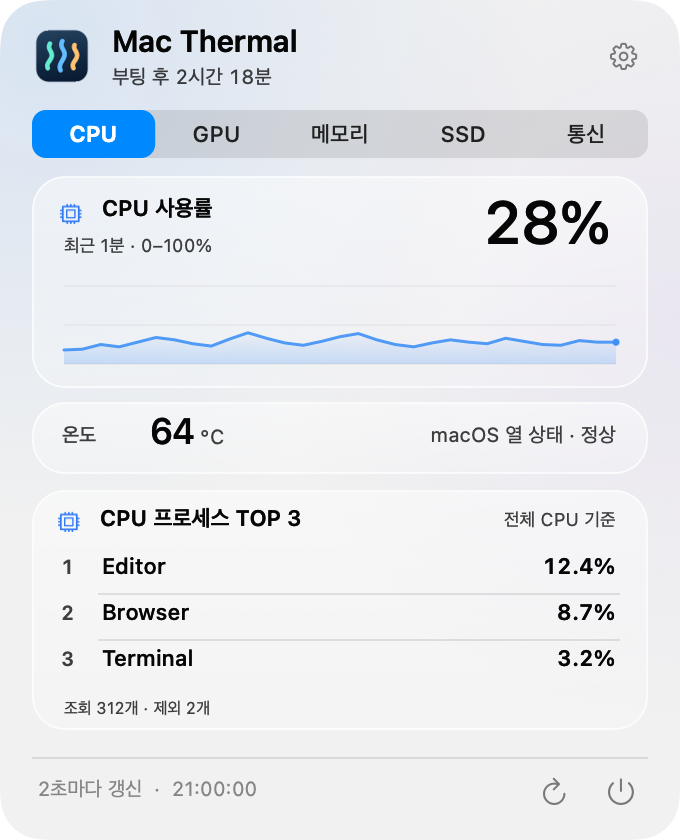
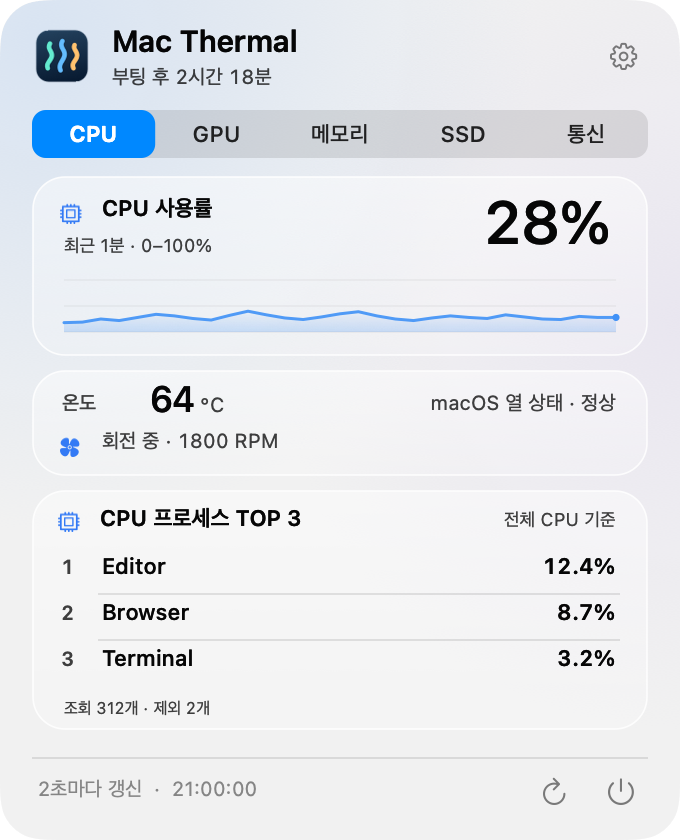
Prepare v2.13.1 release notes and sensor panel previews

Changed region(s): [[0.0926, 0.3714, 0.9265, 0.4333], [0.0926, 0.4643, 0.4015, 0.5571], [0.6176, 0.4643, 0.8956, 0.5262]]

diff --git a/scripts/render-doc-preview.swift b/scripts/render-doc-preview.swift
@@ -44,7 +44,8 @@ enum RenderDocPreview {
             panel.apply(Snapshot(cpuTemperature: 64, ssdTemperature: 42, cpuUsage: cpu[index],
                 upload: upload[index] * 1_000_000, download: download[index] * 1_000_000,
                 interfaces: 1, cpuSensors: 8, ssdSensors: 2, thermal: ThermalStatus(.nominal),
-                time: time.addingTimeInterval(seconds), uptime: 8_280 + seconds, resources: resources))
+                time: time.addingTimeInterval(seconds), uptime: 8_280 + seconds, resources: resources, fans: FanSnapshot(rpms: [1800]),
+                gpuTemperature: 68, memoryProximityTemperature: 50, gpuSensors: 8, memoryProximitySensors: 2))
         }
     }
 

diff --git a/docs/DETAILS.md b/docs/DETAILS.md
@@ -2,14 +2,14 @@
 
 [한국어 README](../README.md) · [English](../README.en.md) · [日本語](../README.ja.md) · [简体中文](../README.zh-CN.md)
 
-이 문서는 Mac Thermal v2.7.1의 표시 기준과 구현상 한계를 설명합니다. 소스 코드는 MIT 라이선스로 제공하며, 타사 고지는 [THIRD_PARTY_NOTICES.txt](../THIRD_PARTY_NOTICES.txt)를 따릅니다.
+이 문서는 Mac Thermal v2.13.1의 표시 기준과 구현상 한계를 설명합니다. 소스 코드는 MIT 라이선스로 제공하며, 타사 고지는 [THIRD_PARTY_NOTICES.txt](../THIRD_PARTY_NOTICES.txt)를 따릅니다.
 
 ## 실행 환경
 
 - 실행: Apple Silicon ARM64, macOS 14 이상. Intel 빌드는 제공하지 않습니다.
 - 빌드: macOS 26 SDK를 포함한 Xcode 26 또는 호환 Command Line Tools. 실행 대상 버전과 빌드 SDK 버전은 다릅니다.
 - macOS 26 이상에서는 AppKit의 `NSGlassEffectView`를 사용하고, 이전 macOS에서는 표준 반투명 패널로 표시합니다.
-- CPU 온도 센서는 Apple M4 Pro에서 실제 읽기를 검증했습니다. 다른 칩의 센서 호환성과 macOS 14·15에서의 전체 동작은 별도로 검증하지 않았습니다.
+- CPU·GPU·메모리 주변 온도와 팬 RPM은 Apple M4 Pro에서 실제 읽기를 검증했습니다. 다른 칩의 센서 호환성과 macOS 14·15에서의 전체 동작은 별도로 검증하지 않았습니다.
 - SMC 및 HID 센서 접근은 공개적으로 문서화되지 않은 시스템 인터페이스를 포함하므로 하드웨어·OS 업데이트에 따라 읽기가 제한되거나 바뀔 수 있습니다. 센서를 읽을 수 없으면 `—`를 표시하고 다른 값을 정상 측정값처럼 대신하지 않습니다.
 
 ## 수집과 저장
@@ -24,12 +24,16 @@
 | --- | --- |
 | CPU 온도 | 읽기에 성공한 CPU 코어 센서의 최댓값. 평균 온도가 아닙니다. 우선 SMC 키를 읽고, 값이 없으면 인식 가능한 HID CPU 센서를 확인합니다. |
 | SSD 온도 | 내장 SSD의 HID `NAND CH* temp` 센서 중 최댓값. 없으면 SMC `TH0x`를 확인합니다. |
-| 메모리 온도 | 제공하지 않습니다. 확인되지 않은 PMU 값을 RAM 온도로 표시하지 않습니다. |
+| GPU 온도 | 확인된 M4 계열 SMC GPU 센서 중 최댓값. 없으면 GPU로 명시된 HID 센서만 확인하며 PMU 값을 대신 쓰지 않습니다. |
+| 메모리 주변 온도 | M4 계열의 `Tm0p`·`Tm1p`·`Tm2p` 중 읽기에 성공한 값의 최댓값. RAM 칩 내부 온도가 아닙니다. 미지원 기기는 `—`로 표시합니다. |
+| 팬 | SMC의 `FNum`과 각 `FnAc`에서 실제 RPM을 읽습니다. 읽기 실패·정지(0 RPM)·팬 없음(명시적 개수 0)을 구분하며 팬을 제어하지 않습니다. |
 | 열 상태 | `ProcessInfo.processInfo.thermalState`의 `nominal` / `fair` / `serious` / `critical`을 사용합니다. 온도 숫자로 자체 판정하지 않습니다. |
 
 CPU 센서의 현재 SMC 키 목록은 [ThermalSensors.c](../Sources/ThermalSensors.c)에 있습니다. PMU `tdie`·`tdev` 값은 CPU 온도에 포함하지 않습니다. 유효 범위를 벗어나거나 비정상인 온도는 제외합니다.
 
-열 상태가 `fair`이면 메뉴 막대 글자와 온도 숫자를 주황색, `serious`·`critical`이면 빨간색으로 표시합니다. 정상으로 돌아오면 기본 색상으로 복구합니다. 경고는 상태를 알려주는 표시이며 냉각을 직접 제어하지 않습니다.
+macOS 전체 열 상태와 각 부품의 온도 경고는 따로 표시합니다. CPU·GPU·SSD 메뉴바 그룹은 해당 부품 온도만 판단하며 다른 항목으로 색이 번지지 않습니다. 메모리 패널의 주변 온도와 메모리 압박도 독립적입니다.
+
+앱 표시 기준은 CPU·GPU 90°C부터 주의(주황), 100°C부터 높음(빨강), SSD 60°C/70°C, 메모리 주변 75°C/85°C입니다. 제조사 한계 온도나 과열 확정 진단이 아니며 툴팁에서 기준을 설명합니다. 정상으로 돌아오면 기본 색으로 복구하고, 읽지 못한 값은 경고로 단정하지 않습니다. 냉각·전력·팬 속도를 변경하지 않습니다.
 
 센서 프로토콜과 매핑을 참고한 공개 소스:
 
@@ -47,13 +51,13 @@ CPU 탭은 사용률과 최근 1분 그래프를 중심으로 구성하며, CPU 
 
 GPU 탭은 IOKit `AGXAccelerator` 서비스의 `PerformanceStatistics`에 있는 `Device Utilization %`를 전체 사용률로 표시합니다. Renderer·Tiler 값을 더하거나 전력에서 사용률을 추정하지 않습니다. 드라이버가 보고하는 유한한 0~100% 숫자만 유효하며, 실제 유휴 값 0과 미지원·조회 실패를 구분합니다. 값이 없으면 메뉴바는 `—`, GPU 패널은 `정보 없음`을 표시합니다.
 
-모델과 코어 수는 같은 서비스의 속성에서 별도로 읽습니다. Apple M4 Pro 20코어에서 현재 사용자 권한의 실제 읽기를 검증했으며, 다른 칩·macOS 버전에서 같은 필드 제공을 보장하지 않습니다. IOKit 접근에 사용하는 시스템 API와 별개로 이 드라이버 속성 계약은 문서화되지 않았습니다. GPU 온도·주파수·전력·NPU 사용률은 제공하지 않습니다.
+모델과 코어 수는 같은 서비스의 속성에서 별도로 읽습니다. Apple M4 Pro 20코어에서 현재 사용자 권한의 실제 읽기를 검증했으며, 다른 칩·macOS 버전에서 같은 필드 제공을 보장하지 않습니다. IOKit 접근에 사용하는 시스템 API와 별개로 이 드라이버 속성 계약은 문서화되지 않았습니다. GPU 온도는 별도 SMC/HID 경로에서 확인하며, 주파수·전력·NPU 사용률은 제공하지 않습니다.
 
 레지스트리 서비스와 모델 정보를 재사용하며, 서비스가 사라지면 해제하고 다시 탐색합니다. 장치가 없을 때는 매 표본 전체를 탐색하지 않고 재시도 간격을 둡니다. 2초마다 숫자를 읽으며 별도 명령 실행·관리자 권한·helper를 사용하지 않습니다. GPU 그래프는 CPU와 같은 최근 1분·0~100% 눈금과 미측정 구간 처리 기준을 사용합니다.
 
 ## 메모리
 
-메모리 탭은 전체·사용 중 메모리와 커널이 보고하는 메모리 압박을 중심으로, 압축 메모리의 물리 저장 크기·스왑 사용량과 메모리 사용량 TOP 3 프로세스를 함께 표시합니다.
+메모리 탭은 전체·사용 중 메모리와 커널이 보고하는 메모리 압박을 중심으로, 압축 메모리의 물리 저장 크기·스왑 사용량과 메모리 사용량 TOP 3 프로세스와 메모리 주변 최고 온도를 함께 표시합니다. 주변 온도는 메모리 압박과 별도 지표이며 칩 내부 온도로 해석하지 않습니다.
 
 사용량은 VM의 활성·비활성·고정·압축 페이지에서 purgeable·파일 캐시 페이지를 뺀 추정치입니다. Activity Monitor와 바이트 단위 일치를 보장하지 않습니다. 메모리 압박 색상은 사용률로 추정하지 않으며, 압박 정보를 읽을 수 없으면 정보 없음으로 표시합니다.
 

diff --git a/RELEASES.md b/RELEASES.md
@@ -1,28 +1,17 @@
 # Releases
 
-## Unreleased — v2.13.1, GPU·메모리 주변 온도
+## v2.13.1 — 2026-10-20
 
-- GPU 패널에 GPU 최고 온도, 메모리 패널에 메모리 주변 최고 온도를 추가합니다. 고정된 패널 크기와 기존 2초 수집 주기를 유지합니다.
-- 확인된 M4 계열 SMC 키와 명시적인 GPU HID 센서만 사용하며, PMU 값을 GPU/RAM으로 추정하지 않습니다. 미지원·유효하지 않은 값은 읽기 불가로 표시합니다.
-- GPU·메모리 주변 온도 경고는 각각 따로 적용합니다. GPU 메뉴바도 GPU 온도만 판단하며, 메모리 압박과 주변 온도는 독립적으로 표시합니다.
-- 표시 기준은 GPU 90°C/100°C, 메모리 주변 75°C/85°C입니다. 제조사 기준이나 과열 확정 진단이 아니며 툴팁에 설명합니다.
+Independent temperature warnings, fan RPM and home-directory disk cleanup. Build 47.
 
-## Unreleased — v2.13.0, 항목별 온도 경고와 팬 상태
+- Add GPU temperature and explicitly labeled memory proximity temperature to the fixed-size resource panels. Use verified M4-family SMC mappings or explicitly named GPU HID sensors, exclude PMU substitutions, and show unknown for unsupported or invalid readings. Live M4 Pro readings were verified; compatibility on other models is not guaranteed.
+- Color only the affected CPU, GPU or SSD menu group. Show each panel temperature warning independently; memory pressure remains separate from memory proximity temperature. Keep usage graphs, network and Codex colors independent. App display thresholds are CPU/GPU 90°C/100°C, SSD 60°C/70°C and memory proximity 75°C/85°C; they are explained in tooltips and are not manufacturer limits or an overheating diagnosis.
+- Add read-only fan running/stopped status and actual RPM to the CPU panel. Distinguish an unavailable sensor from stopped fans and an explicitly reported fanless device. No fan control, administrator helper, extra timer or external package.
+- Start disk cleanup from an explicit home Auto scan button without requiring a folder picker. Read local metadata only, exclude protected/development/known-cloud locations and links, keep every home candidate unchecked, and require exact final review before moving selected files to Trash. Retain optional remembered one-folder scanning, bounded cancellation and partial-result warnings. No permanent deletion, Full Disk Access request or automatic scan on app launch.
+- Preserve 340×420pt resource and 300×420pt Codex surfaces, fixed positioning, two-second resource sampling, four languages, opt-in Codex account features and the existing privacy boundaries. Refresh documentation with synthetic screenshots only.
+- Validate the full native suite, per-metric warning pixels/recovery, missing sensors, four-language layouts, sensor read-only commands and synthetic cleanup safety; check the installed GPU/memory/fan panels on an M4 Pro.
 
-- 메뉴바 경고 색은 해당 CPU 또는 SSD 항목에만 적용합니다. macOS 전체 열 상태는 별도 정보로 표시합니다.
-- CPU 패널에 팬 회전 상태와 SMC 실측 RPM을 추가합니다. 센서 미지원·팬 없음·정지 상태를 구분하며 팬을 제어하지 않습니다.
-- 앱 표시 기준은 CPU 90°C/100°C, SSD 60°C/70°C이며 제조사 한계 온도나 과열 확정 진단이 아닙니다. 기준은 온도 툴팁에서 확인할 수 있습니다.
-- 기존 2초 수집 주기와 패널 크기를 유지하며 추가 반복 애니메이션·관리자 권한·외부 전송은 없습니다.
-
-## Unreleased — v2.12.0
-
-Home-directory cleanup without a required folder picker. Build 45.
-
-- Start from a home-scope explanation and an explicit Auto scan button. Opening or reopening the app/panel does not scan the home directory.
-- Inspect local file metadata only, excluding system/Library/application, hidden/package, known development/cloud and other-device locations. Skip inaccessible items and never follow symbolic links. Arbitrarily named sync folders may be undetected; disclose this before scanning.
-- Keep every home candidate unchecked, including old installers. Require direct selection and exact final confirmation before any Trash move. Preserve optional remembered one-folder mode under folder management.
-- Bound home inspection to 50,000 entries, 1,000 candidates, depth 20 and a 20-second cooperative budget (OS access waits can take longer); show a system-access hint if the initial call stalls, and support cancellation and show partial-result warnings. Revalidate reviewed files and ancestors before moving them.
-- Add four-language guidance and synthetic home/scope/UI regression checks. No file-content reads, external transmission, Full Disk Access request, new packages, permanent deletion or automatic Trash emptying.
+Apple Silicon · macOS 14+. DMG, ZIP and SHA256SUMS are provided. Community builds are ad-hoc signed, without Developer ID signing or Apple notarization. MIT licensed; bundled notices are preserved. Made with OpenAI Codex and user feedback.
 
 ## v2.11.1 — 2026-10-20
 

diff --git a/README.ja.md b/README.ja.md
@@ -20,6 +20,7 @@
 
 - **メニューバー:** CPU温度・使用率、GPU使用率、SSD読み書き、ネットワーク速度と動く指標。
 - **クリックでパネル:** CPU・GPU・メモリ・SSD・通信タブ、最近のグラフ、CPU・メモリ上位3プロセス、起動後の経過時間。
+- **温度とファン:** CPU・GPU・SSD温度とメモリ**周辺温度**、項目別の警告色、CPUパネルのファン状態と実測RPM。センサー対応は機種によって異なります。
 - **Codex:** 左の補助パネルに今日のローカルトークン・入出力・キャッシュ再利用率・モデルTOP 3を表示。任意のアカウント上限と活動要約を追加でき、細い独自スクロールバーでカードをまとめて移動します。
 - **ディスク整理:** フォルダ指定なしでホームを自動検査。候補を手動で選び、最終確認後にゴミ箱へ移動。特定フォルダのみの検査も可能。
 - **設定:** 表示項目・動き・ログイン時の起動を変更。韓国語が既定で、英語・日本語・簡体字中国語にも対応。

diff --git a/README.md b/README.md
@@ -20,6 +20,7 @@
 
 - **메뉴바:** CPU 온도·사용률, GPU 사용률, SSD 읽기·쓰기, 네트워크 속도와 움직이는 지표.
 - **클릭 패널:** CPU·GPU·메모리·SSD·통신 탭, 최근 그래프, CPU·메모리 프로세스 TOP 3, 부팅 후 경과 시간.
+- **온도와 팬:** CPU·GPU·SSD 온도와 메모리 **주변 온도**, 항목별 독립 경고색, CPU 패널의 팬 상태·실측 RPM. 센서 지원은 기기에 따라 다릅니다.
 - **Codex:** 왼쪽 보조 패널에 오늘 로컬 토큰·입력/출력·캐시 재사용·모델 TOP 3. 선택적으로 계정 한도와 활동 요약을 연결하며, 얇은 커스텀 스크롤바로 카드를 함께 탐색합니다.
 - **디스크 정리:** 폴더 지정 없이 홈 폴더를 자동 검사. 후보를 직접 선택하고 최종 확인 후 휴지통으로 이동. 특정 폴더 검사도 지원.
 - **설정:** 표시 항목·움직임·로그인 시 자동 실행. 한국어 기본, 영어·일본어·중국어 간체 지원.

diff --git a/README.en.md b/README.en.md
@@ -20,6 +20,7 @@
 
 - **Menu bar:** CPU temperature and usage, GPU usage, SSD read/write rates, network speeds and animated indicators.
 - **Click-open panel:** CPU, GPU, memory, SSD and network tabs, recent graphs, top three CPU/memory processes and system uptime.
+- **Temperatures and fans:** CPU/GPU/SSD temperatures, memory **proximity temperature**, independent warning colors, and fan status with actual RPM in the CPU panel. Sensor availability varies by device.
 - **Codex:** A left companion shows local tokens today, input/output, cache reuse and model TOP 3. Optional account quota and activity summaries share a scrolling card layout with an original slim scrollbar.
 - **Disk cleanup:** Start a home scan without choosing a folder. Select candidates yourself, then confirm before moving them to Trash. Optional one-folder scanning remains available.
 - **Settings:** Choose metrics, motion and startup at login. Korean by default; English, Japanese and Simplified Chinese supported.

diff --git a/README.zh-CN.md b/README.zh-CN.md
@@ -20,6 +20,7 @@
 
 - **菜单栏：** CPU温度与使用率、GPU使用率、SSD读写、网络速度及动画指示器。
 - **点击面板：** CPU、GPU、内存、SSD、网络标签，近期图表，CPU/内存占用最高的3个进程及系统运行时长。
+- **温度与风扇：** CPU/GPU/SSD温度、内存**周边温度**、各指标独立警告颜色，以及CPU面板中的风扇状态和实测RPM。传感器支持因设备而异。
 - **Codex：** 左侧辅助面板显示今日本地令牌、输入/输出、缓存复用率和模型TOP 3。可选连接账号额度和活动摘要，通过纤细的原创滚动条一起浏览卡片。
 - **磁盘清理：** 无需指定文件夹即可扫描主文件夹。自行选择候选文件，最终确认后移到废纸篓。也支持仅扫描指定文件夹。
 - **设置：** 自选指标、动画及登录时启动。默认韩语，支持英语、日语及简体中文。
